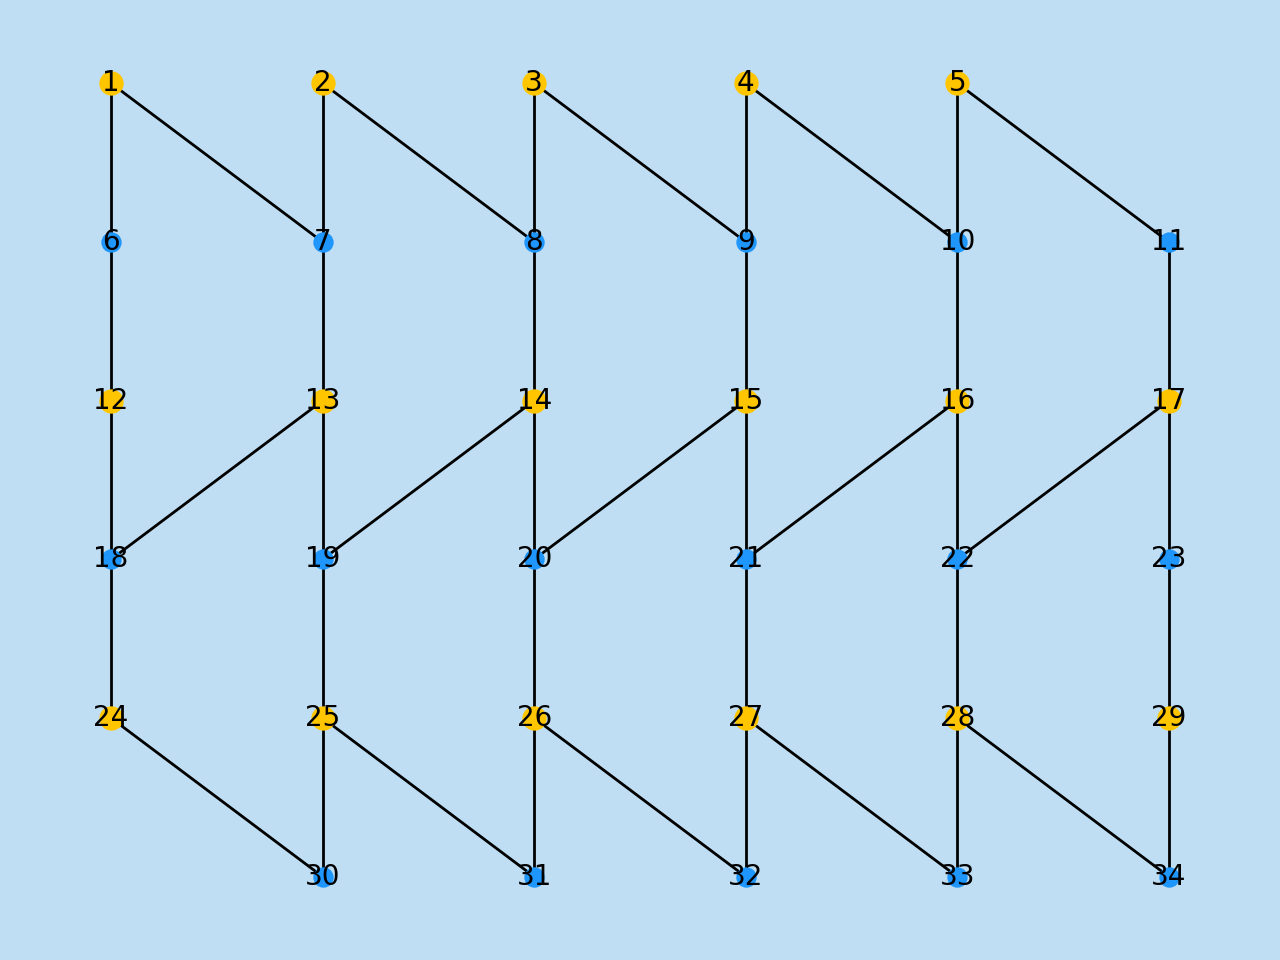
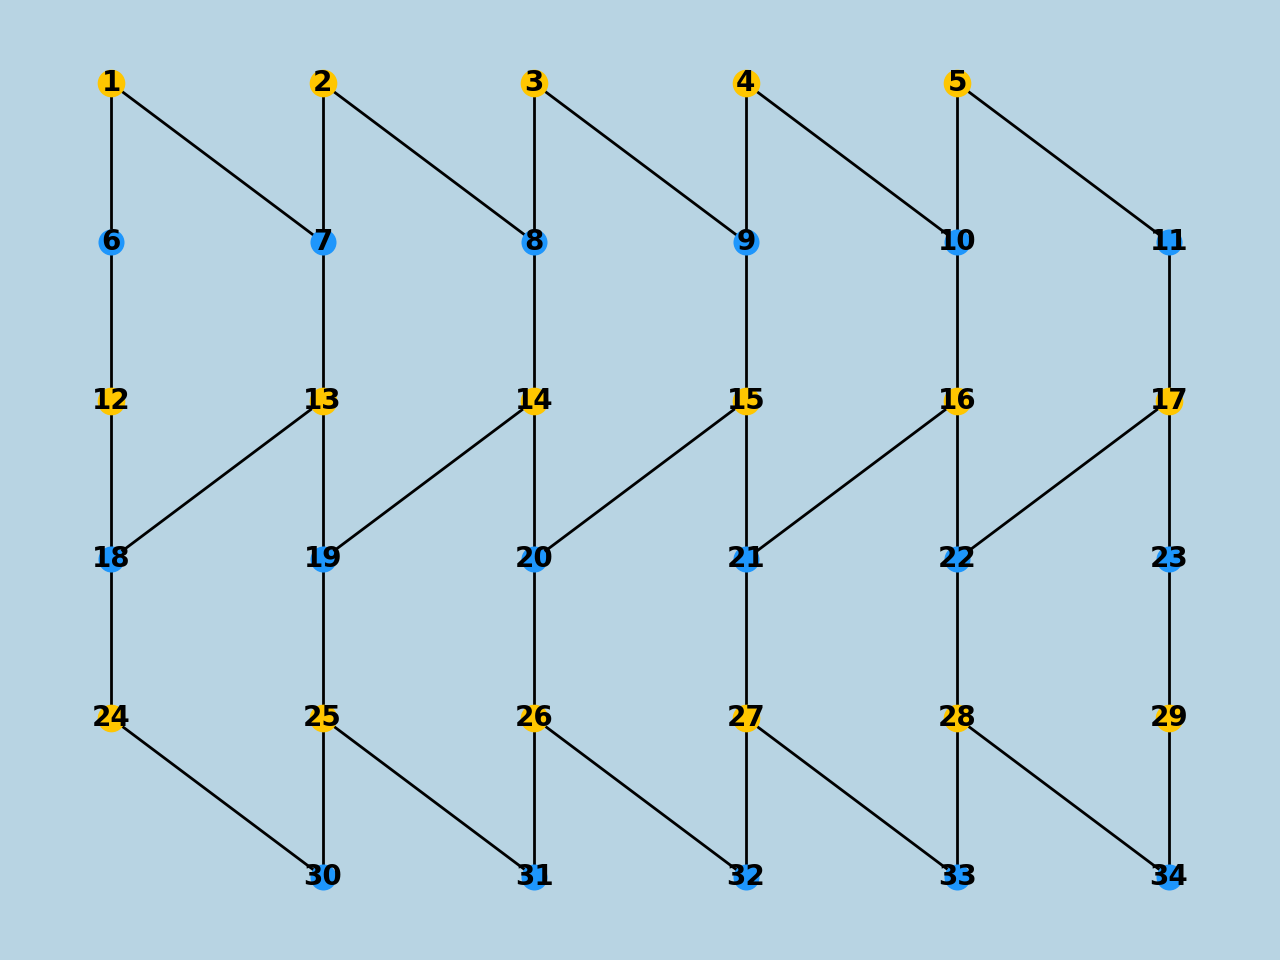
interface fix

diff --git a/templates/1-index.html b/templates/1-index.html
@@ -3,36 +3,24 @@
 <head>
     <link href='https://fonts.googleapis.com/css?family=Hind' rel='stylesheet'>
     <link href="https://cdn.jsdelivr.net/npm/bootstrap@5.3.1/dist/css/bootstrap.min.css" rel="stylesheet" integrity="sha384-4bw+/aepP/YC94hEpVNVgiZdgIC5+VKNBQNGCHeKRQN+PtmoHDEXuppvnDJzQIu9" crossorigin="anonymous">
+    <link rel="stylesheet" href="static/styles.css">
     <link rel="icon" type="image/x-icon" href="static/favicon.ico">
     <title>Eternal Vertex Cover Visualizer</title>
 
+    
     <style>
     :root {
         --d: {{display}};}
-
-    body {
-        background-color:#bfdef3;}
-
-    .div-1 {
-        background: #ffffff;
-        border-radius: 25px;}
-
-    h1 {
-        color: #000000;
-        font-family: 'Hind';}
-
-    label {
-        color: #000000;
-        font-family: 'Hind';
-        font-size:18px}
-
-    p {
-        margin: 20px;}
+    
+    
     </style>
+    
 </head>
 <body>
     <div class="container text-center  my-3">
-        <h1>Eternal Vertex Cover Visualizer</h1>
+        <h1>Eternal Vertex Cover - Visualizer</h1>
+
+        <h2 class="my-4">Create the grid</h2>
       
         <form class="my-4" action="/result" method="post">
             <label for="width">Insert grid <b>width</b>:</label>
@@ -60,7 +48,7 @@
 
 
     <div class="row justify-content-evenly my-5">
-        <div class="div-1 col-4">
+        <div class="div-2 col-4">
             <p style="font-size:16px">
                 Here is a tool for visualizing Eternal Vertex Cover over grid graphs. </br> </br>
                 <b>Step 1:</b> Create the grid chosing height, width and the grid shape (please avoid grids bigger than 20x20)</br>
@@ -68,7 +56,7 @@
                 keep all vertex covered
             </p>
         </div>
-        <div class="div-1 col-4">
+        <div class="div-2 col-4">
             <p style="font-size:16px">
                 What is an <b>Eternal Vertex Cover</b>? </br> </br>
                 An eternal vertex cover is a set of vertices in a graph such that,

diff --git a/templates/2-result.html b/templates/2-result.html
@@ -3,47 +3,16 @@
 <head>
     <link href='https://fonts.googleapis.com/css?family=Hind' rel='stylesheet'>
     <link href="https://cdn.jsdelivr.net/npm/bootstrap@5.3.1/dist/css/bootstrap.min.css" rel="stylesheet" integrity="sha384-4bw+/aepP/YC94hEpVNVgiZdgIC5+VKNBQNGCHeKRQN+PtmoHDEXuppvnDJzQIu9" crossorigin="anonymous">
+    <link rel="stylesheet" href="static/styles.css">
     <link rel="icon" type="image/x-icon" href="static/favicon.ico">
-    <style>
-    img {
-        border-radius: 25px;
-        width: auto;
-        height: auto;}
 
-    body {
-        background-color:#bfdef3;}
-
-    .div-1 {
-        background: #ffffff;
-        border-radius: 25px;
-        width: auto;
-        height: auto;}
-
-    h1 {
-        color: #000000;
-        font-family: 'Hind';}
-
-    label {
-        color: #000000;
-        font-family: 'Hind';
-        font-size:18px}
-
-    p {
-        margin: 20px;}
-    
-    .dot {
-        height: 15px;
-        width: 15px;
-        border-radius: 50%;
-        display: inline-block;
-        }
-    </style>
     <title>Results</title>
 </head>
 <body>
     
     <div class="container text-center  my-2">
-        <h1>Grid of {{shape}}s</h1>
+        <h1>Eternal Vertex Cover - Visualizer</h1>
+        <h2 class="my-4">Grid of {{shape}}s</h2>
         <form action="/defend" method="post">
             <label for="edge">Chose the edge you want to attack:</label>
             <input type="text" id="edge" name="edge" placeholder="eg. (1,2)">

diff --git a/templates/3-defend.html b/templates/3-defend.html
@@ -3,46 +3,19 @@
 <head>
     <link href='https://fonts.googleapis.com/css?family=Hind' rel='stylesheet'>
     <link href="https://cdn.jsdelivr.net/npm/bootstrap@5.3.1/dist/css/bootstrap.min.css" rel="stylesheet" integrity="sha384-4bw+/aepP/YC94hEpVNVgiZdgIC5+VKNBQNGCHeKRQN+PtmoHDEXuppvnDJzQIu9" crossorigin="anonymous">
+    <link rel="stylesheet" href="static/styles.css">
     <link rel="icon" type="image/x-icon" href="static/favicon.ico">
     <style>
     :root {
         --d: {{display}};}
-    img {
-        border-radius: 25px;}
-
-    body {
-        background-color:#bfdef3;}
-
-    .div-1 {
-        background: #ffffff;
-        border-radius: 25px;
-        width: auto;
-        height: auto;}
-
-    h1 {
-        color: #000000;
-        font-family: 'Hind';}
-
-    label {
-        color: #000000;
-        font-family: 'Hind';
-        font-size:18px}
-
-    p {
-        margin: 20px;}
     
-    .dot {
-        height: 15px;
-        width: 15px;
-        border-radius: 50%;
-        display: inline-block;
-        }
     </style>
     <title>Defend</title>
 </head>
 <body>
     <div class="container text-center  my-2">
-        <h1>Attacked edge: {{edge}}</h1>
+        <h1>Eternal Vertex Cover - Visualizer</h1>
+        <h2 class="my-4">Attacked edge: {{edge}}</h2>
         
         <form action="/defend" method="post">
             <label for="edge">Next edge:</label>

diff --git a/static/styles.css b/static/styles.css
@@ -1,0 +1,43 @@
+body {
+    background-color:#B8D4E3;}
+
+.div-1 {
+    background: #ffffff;
+    border-radius: 25px;
+    width: auto;
+    height: auto;}
+
+.div-2 {
+    background: #ffffff;
+    border-radius: 25px;}
+
+h1 {
+    color: #000000;
+    font-family: 'Hind';
+    font-weight: bold;}
+
+h2 {
+    color: #000000;
+    font-family: 'Hind';}
+
+label {
+    color: #000000;
+    font-family: 'Hind';
+    font-size:18px}
+
+p {
+    margin: 20px;}
+
+.dot {
+    height: 15px;
+    width: 15px;
+    border-radius: 50%;
+    display: inline-block;
+    }
+img {
+    border-radius: 25px;
+    width: auto;
+    height: auto;}
+
+
+   

diff --git a/graph_animation.py b/graph_animation.py
@@ -31,9 +31,12 @@ def update(frame, steps, fig, ax, G, pos, G_guards, G_edges, pos_g, pos_g1, labe
         pos_g[guard] = (pos_g[guard][0]+steps[frame]*d[0], pos_g[guard][1]+steps[frame]*d[1])
     loop+=1
     
-    nx.draw(G, pos=pos, ax=ax, with_labels=True, labels=labels, node_color="#1E96FC", node_size=40, font_size=font_size)
-    nx.draw(G_edges, pos=pos,  ax=ax, node_color="#1E96FC", edge_color="#ff0000", node_size=60, font_size=font_size)
-    nx.draw(G_guards, pos=pos_g, ax=ax, node_color="#FFC600", node_size=60, font_size=font_size)
+    node_color = "#1E96FC"
+    guards_color = "#FFC600"
+    att_edge_color = "#ff0000"
+    nx.draw(G, pos=pos, ax=ax, with_labels=True, labels=labels, node_color=node_color, node_size=70, font_size=font_size, font_weight="bold")
+    nx.draw(G_edges, pos=pos,  ax=ax, node_color=node_color, edge_color=att_edge_color, node_size=70, font_size=font_size, font_weight="bold")
+    nx.draw(G_guards, pos=pos_g, ax=ax, node_color=guards_color, node_size=80, font_size=font_size, font_weight="bold")
     
 #Make the gif loop only once   
 def convert(old_filename, new_filename):

diff --git a/vertex_cover.py b/vertex_cover.py
@@ -91,8 +91,10 @@ Move guards according to the grid type and the attacked edge
 def move_guards(shape, G, G_guards, G_edges, pos, edge, h, w):
     #get the edge
     edge = edge[1:-1].split(",")
-    x = int(edge[0])
-    y=int(edge[1])
+    try: x=int(edge[0])
+    except: return G_guards, G_edges, pos, False
+    try: y=int(edge[1])
+    except: return G_guards, G_edges, pos, False
     #map edge label to id
     labels = get_labels(G)
     x_n=list(labels.keys())[x-1]

diff --git a/app.py b/app.py
@@ -38,7 +38,7 @@ def attack():
 
 webview.create_window('Eternal Vertex Cover - Visualizer', app) 
 if __name__ == '__main__':
-    #app.run(debug=True)
-    webview.start()
+    app.run(debug=True)
+    #webview.start()
   
 

diff --git a/main.py b/main.py
@@ -20,7 +20,7 @@ G_guards= []
 G_edges= []
 pos_g={}
 pos_g1={}
-color = "#bfdef3"
+color = "#B8D4E3"
 
 def main(h, w, s, edge):
     global width, height, shape, G, G_guards,  G_edges, pos_g
